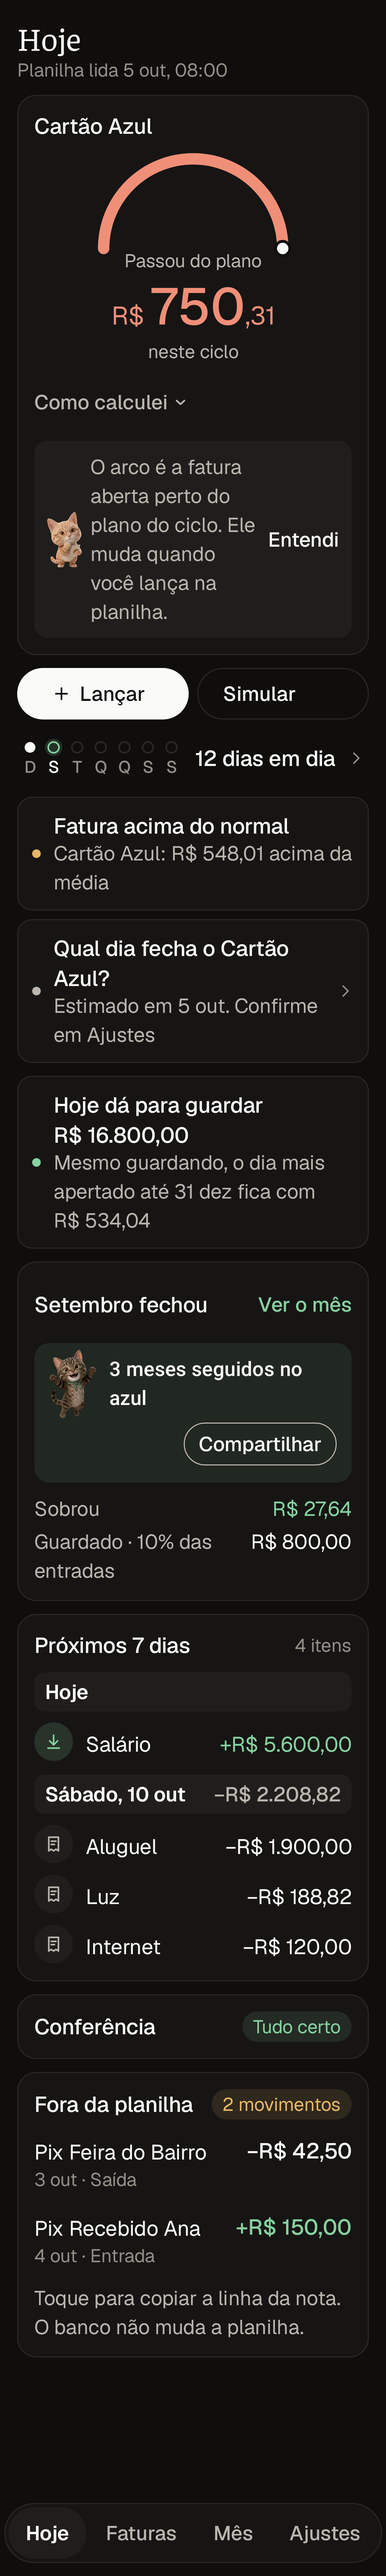
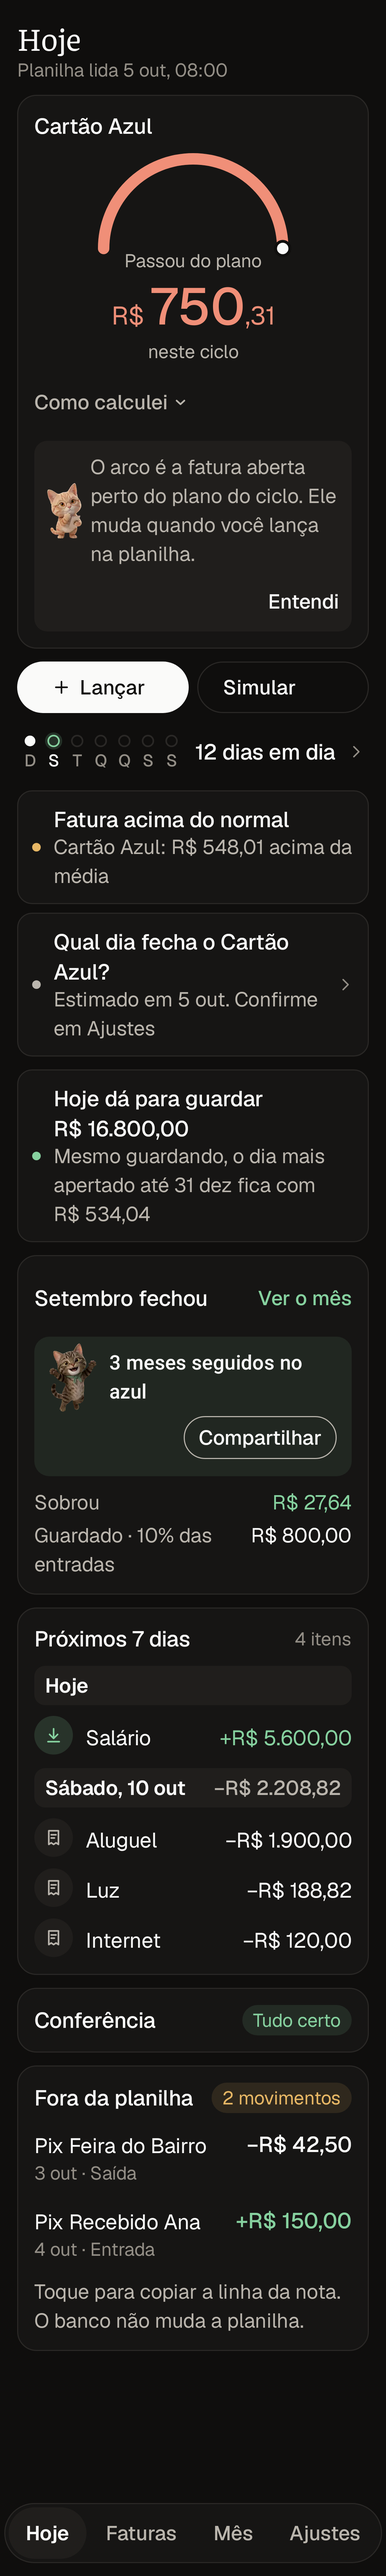
Deixa a faixa do dia e a dica da Mia legíveis com texto grande, no site e no Android (#81)
Com o texto do sistema em 200%, o total do dia em Próximos 7 dias encostava no nome do dia e quebrava no meio do valor, e o botão Entendi espremia a dica numa coluna estreita. Agora o nome do dia quebra primeiro e o total fica numa linha só; com texto grande, o Entendi desce para baixo da dica. Android 0.64.0.

Claude-Session: https://claude.ai/code/session_015puGdtXzviPEaqxJtpNLAQ

diff --git a/apps/android/app/src/main/kotlin/dev/johnlaff/neko/ui/Learn.kt b/apps/android/app/src/main/kotlin/dev/johnlaff/neko/ui/Learn.kt
@@ -3,6 +3,8 @@ package dev.johnlaff.neko.ui
 import android.content.Context
 import androidx.compose.foundation.background
 import androidx.compose.foundation.layout.Arrangement
+import androidx.compose.foundation.layout.Box
+import androidx.compose.foundation.layout.Column
 import androidx.compose.foundation.layout.Row
 import androidx.compose.foundation.layout.fillMaxWidth
 import androidx.compose.foundation.layout.height
@@ -15,6 +17,7 @@ import androidx.compose.runtime.LaunchedEffect
 import androidx.compose.runtime.getValue
 import androidx.compose.runtime.mutableStateOf
 import androidx.compose.runtime.setValue
+import androidx.compose.ui.platform.LocalDensity
 import androidx.compose.ui.Alignment
 import androidx.compose.ui.Modifier
 import androidx.compose.ui.platform.LocalContext
@@ -130,16 +133,23 @@ fun Hint(id: String, text: String) {
     if (!Hints.showing(context, id)) return
     LaunchedEffect(id) { Hints.claim(id) }
     val l = LocalLedger.current
-    Row(
+    // Large text: "Entendi" drops under the tip instead of squeezing it into a narrow column.
+    val stacked = LocalDensity.current.fontScale >= 1.3f
+    Column(
         Modifier
             .fillMaxWidth()
             .background(l.surface2, RoundedCornerShape(12.dp))
             .padding(horizontal = 12.dp, vertical = 4.dp),
-        verticalAlignment = Alignment.CenterVertically,
-        horizontalArrangement = Arrangement.spacedBy(8.dp),
     ) {
-        ThinkingMia(Modifier.height(52.dp))
-        Text(text, color = l.muted, style = MaterialTheme.typography.bodyMedium, modifier = Modifier.weight(1f).padding(vertical = 8.dp))
-        TextAction("Entendi", { Hints.dismiss(context, id) }, l.text)
+        Row(verticalAlignment = Alignment.CenterVertically, horizontalArrangement = Arrangement.spacedBy(8.dp)) {
+            ThinkingMia(Modifier.height(52.dp))
+            Text(text, color = l.muted, style = MaterialTheme.typography.bodyMedium, modifier = Modifier.weight(1f).padding(vertical = 8.dp))
+            if (!stacked) TextAction("Entendi", { Hints.dismiss(context, id) }, l.text)
+        }
+        if (stacked) {
+            Box(Modifier.fillMaxWidth(), contentAlignment = Alignment.CenterEnd) {
+                TextAction("Entendi", { Hints.dismiss(context, id) }, l.text)
+            }
+        }
     }
 }

diff --git a/apps/android/app/src/main/kotlin/dev/johnlaff/neko/ui/HojeScreen.kt b/apps/android/app/src/main/kotlin/dev/johnlaff/neko/ui/HojeScreen.kt
@@ -428,14 +428,20 @@ private fun Day(d: UpcomingDay, today: String) {
         // A band names the day, as on the site; its total only when it adds up more than one line.
         Row(
             Modifier.fillMaxWidth().background(l.surface2, RoundedCornerShape(10.dp)).padding(horizontal = 10.dp, vertical = 6.dp),
-            horizontalArrangement = Arrangement.SpaceBetween,
+            horizontalArrangement = Arrangement.spacedBy(12.dp),
         ) {
-            Text(relativeDay(d.date, today), style = MaterialTheme.typography.labelLarge.copy(fontWeight = FontWeight.SemiBold))
+            // The day name wraps first; the total keeps its figure on one line.
+            Text(
+                relativeDay(d.date, today),
+                style = MaterialTheme.typography.labelLarge.copy(fontWeight = FontWeight.SemiBold),
+                modifier = Modifier.weight(1f),
+            )
             if (d.items.size > 1) {
                 Text(
                     signed(kotlin.math.abs(d.net), if (d.net > 0) '+' else '−'),
                     color = if (d.net > 0) l.pos else l.muted,
                     style = MaterialTheme.typography.labelLarge,
+                    softWrap = false,
                 )
             }
         }

diff --git a/apps/neko/src/web/styles.css b/apps/neko/src/web/styles.css
@@ -742,6 +742,10 @@ input.switch:checked::after {
   font-size: 0.8125rem;
   color: var(--muted);
 }
+/* The total keeps its figure on one line; the day name wraps first */
+.day-head > span {
+  white-space: nowrap;
+}
 .day-head h3 {
   font-size: inherit;
   font-weight: 600;
@@ -2086,6 +2090,7 @@ button.ghost.small {
 /* One-time tip: the idea behind the number above it, then gone for good */
 .tip {
   display: flex;
+  flex-wrap: wrap;
   align-items: center;
   gap: 12px;
   margin-top: 4px;
@@ -2094,7 +2099,8 @@ button.ghost.small {
   background: var(--pill-active);
 }
 .tip-text {
-  flex: 1;
+  /* Below about 12rem of text (large text, zoom) "Entendi" drops under it instead of squeezing it */
+  flex: 1 1 12rem;
   margin: 0;
   font-size: 0.875rem;
   color: var(--muted);
@@ -2102,6 +2108,7 @@ button.ghost.small {
 /* The hint is already a box: its button is just the word, as on Android. */
 button.ghost.tip-ok {
   flex: none;
+  margin-left: auto;
   box-shadow: none;
   font-weight: 550;
 }
